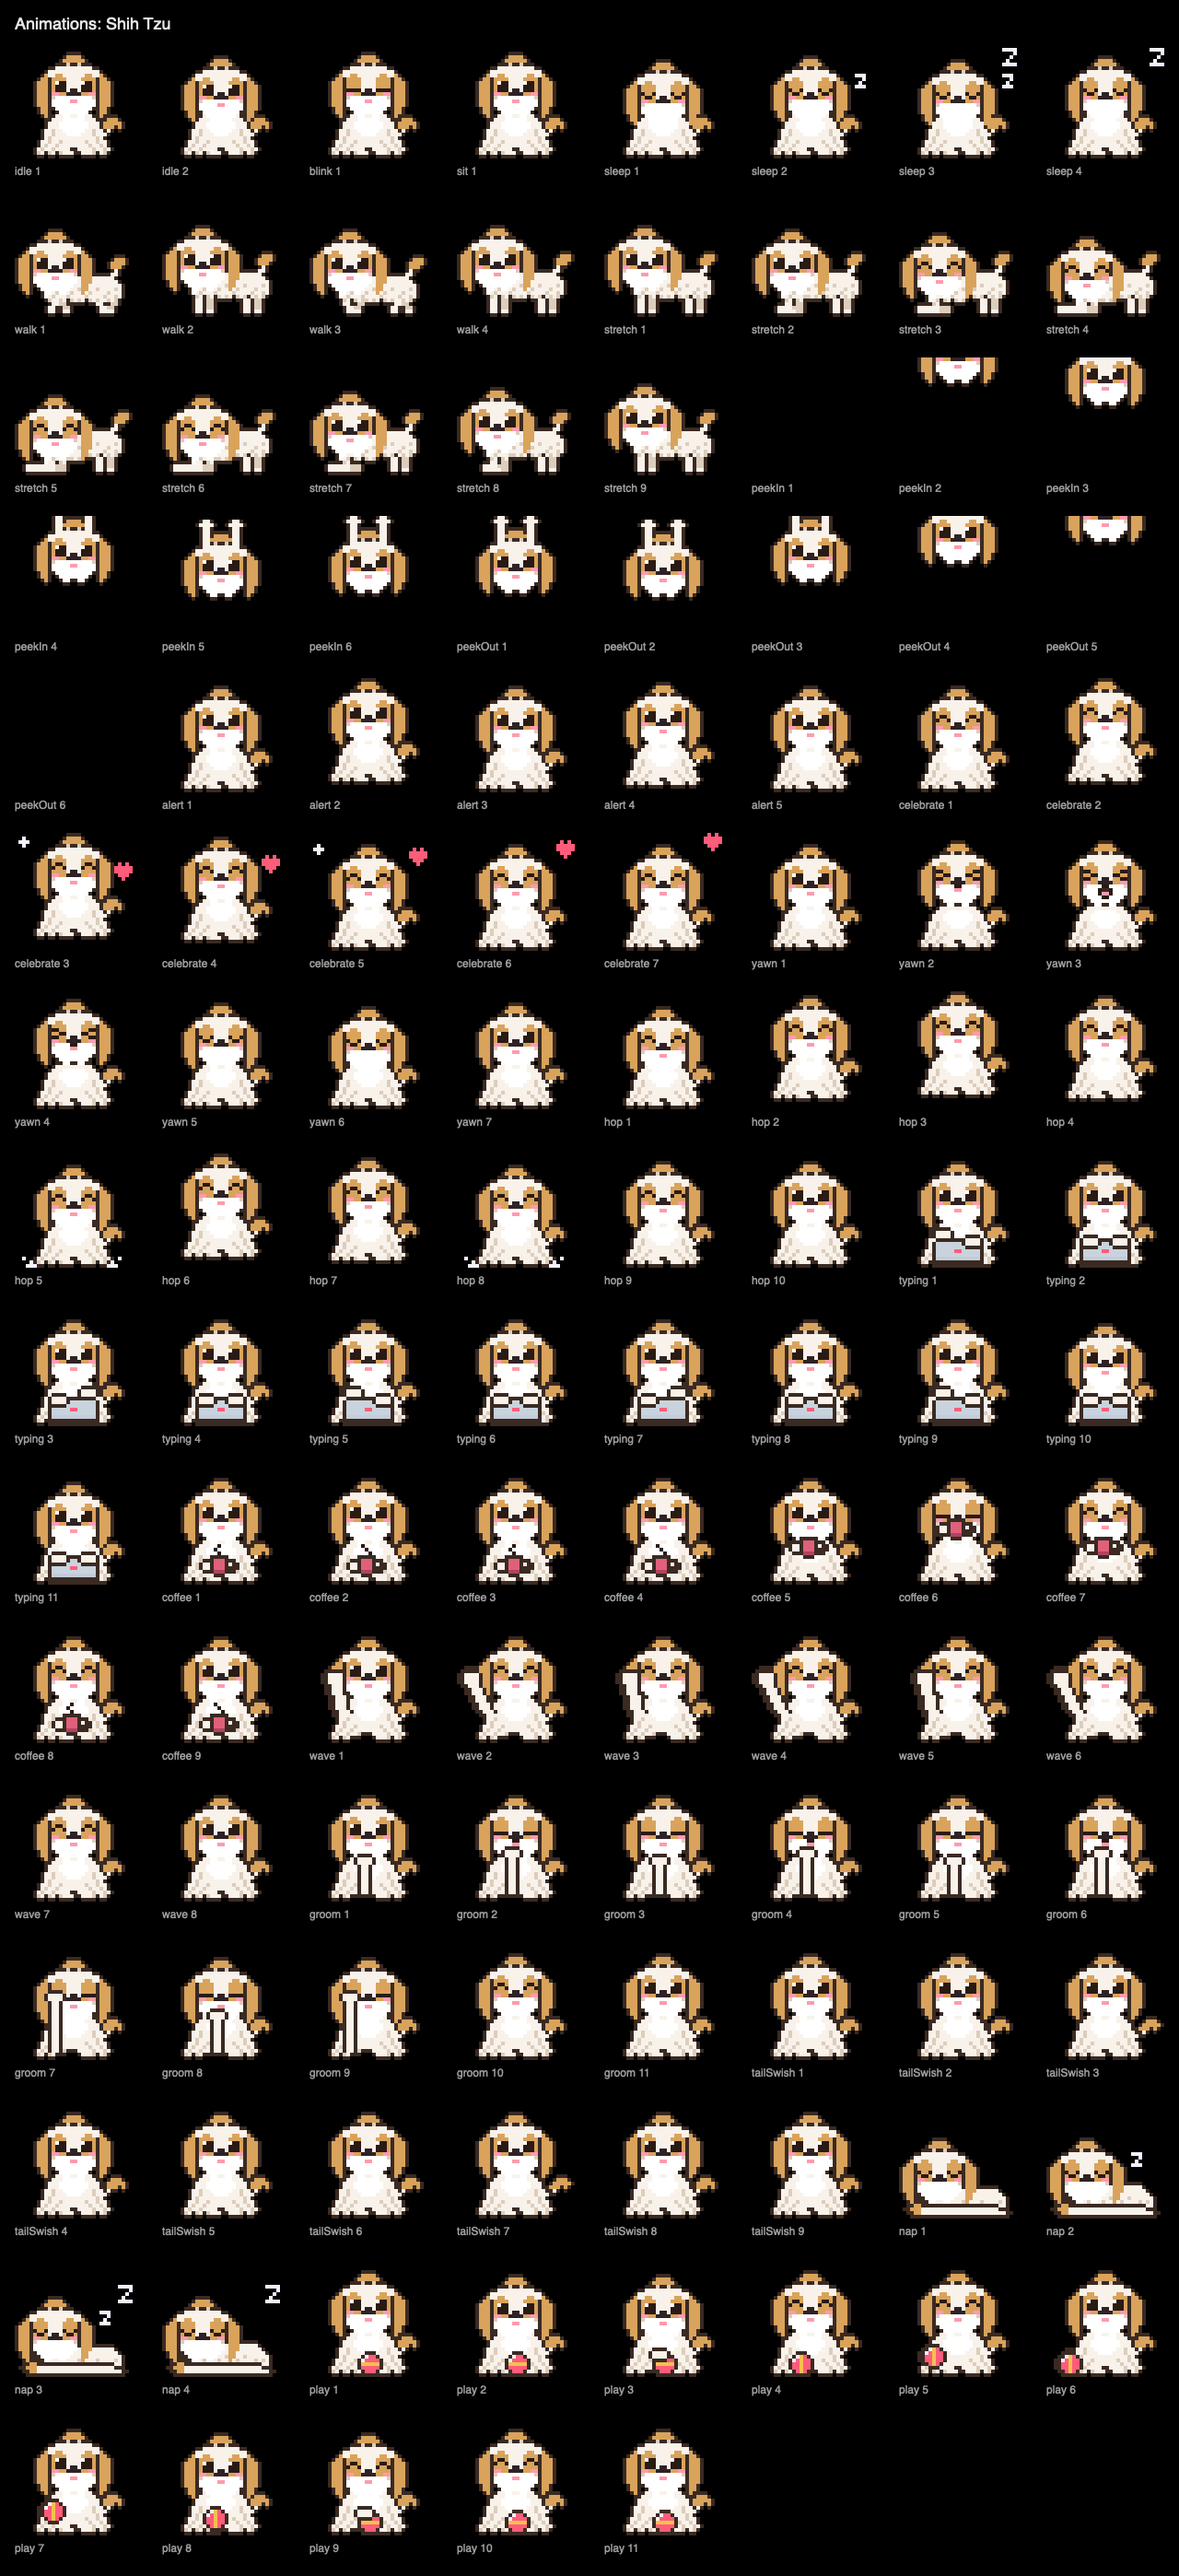
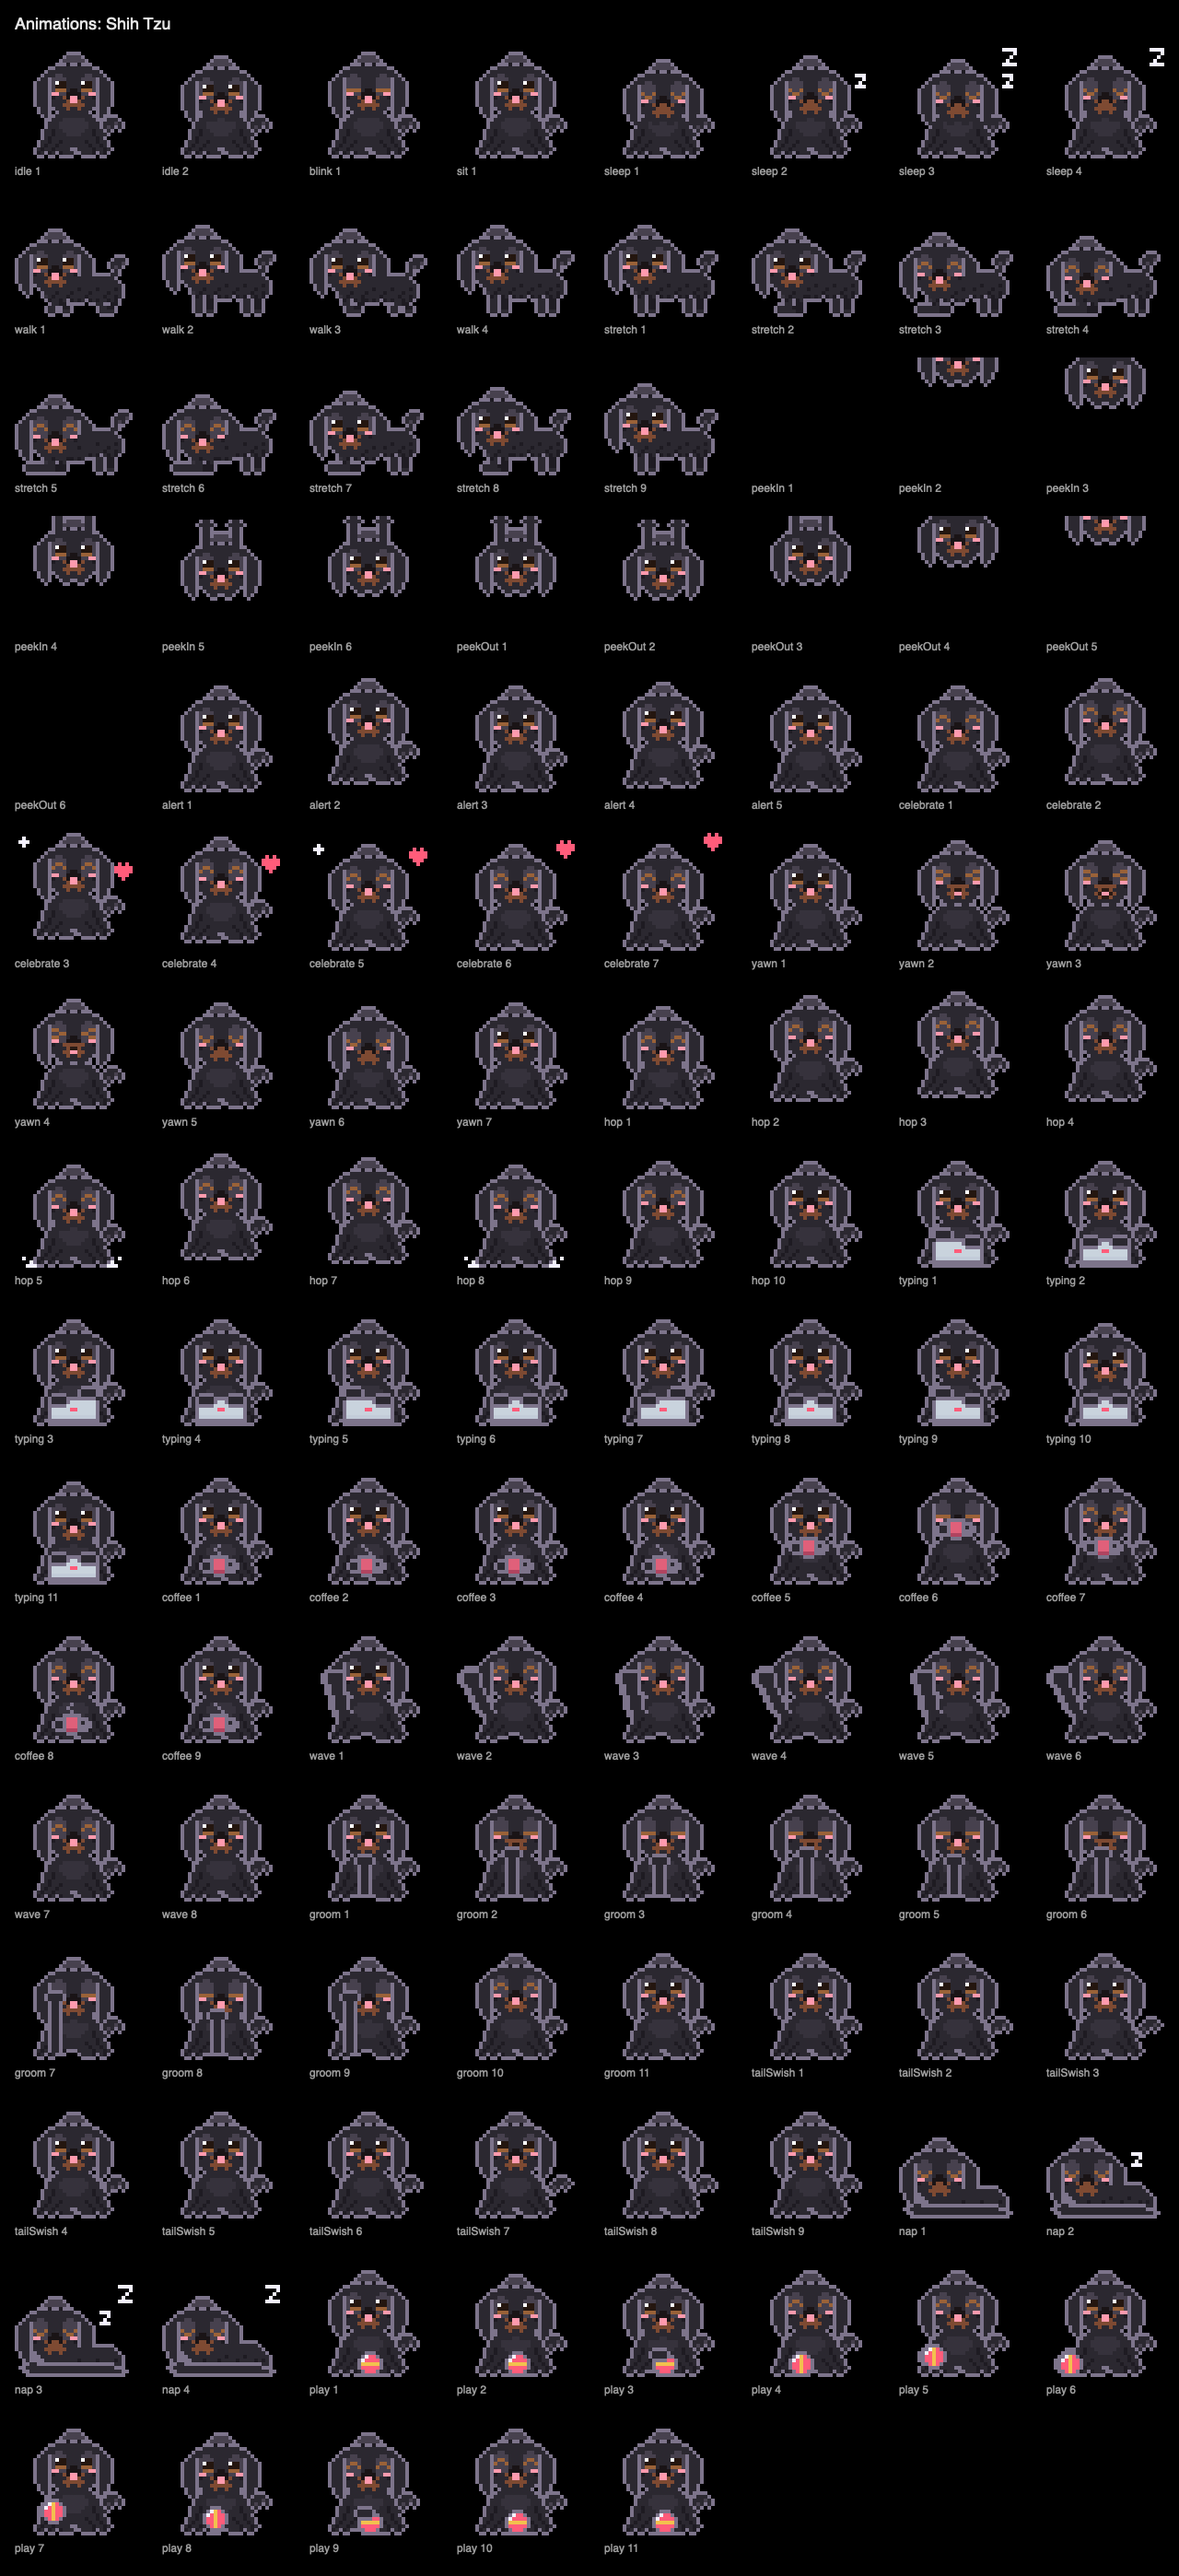
fix(pets): The default Shih Tzu is now black with a brown stain around its mouth, and the pet golden fixtures were re-recorded with changes limited to the Shih Tzu.

diff --git a/Tests/TabbiKitCoreTests/PetFurTintTests.swift b/Tests/TabbiKitCoreTests/PetFurTintTests.swift
@@ -56,13 +56,13 @@ final class PetFurTintTests: XCTestCase {
 
     func testWhiteMarkingsStayWhite() {
         // Bibs, muzzles, and paws drawn in the breed's white belly keep it.
-        for breed in [PetBreed.tuxedo, .calico, .britishShorthair, .corgi, .beagle, .frenchBulldog, .shihTzu] {
+        for breed in [PetBreed.tuxedo, .calico, .britishShorthair, .corgi, .beagle, .frenchBulldog] {
             for pick in PetCloset.furSwatches {
                 XCTAssertEqual(tinted(breed, pick)[.belly], breed.palette[.belly], "\(breed) \(pick)")
             }
         }
         // White-coated pied breeds keep the white coat; the pick colors the patches.
-        for breed in [PetBreed.calico, .frenchBulldog, .shihTzu] {
+        for breed in [PetBreed.calico, .frenchBulldog] {
             for pick in PetCloset.furSwatches {
                 XCTAssertEqual(tinted(breed, pick)[.furBase], breed.palette[.furBase], "\(breed) \(pick)")
             }
@@ -71,13 +71,26 @@ final class PetFurTintTests: XCTestCase {
 
     func testPatchesOnWhiteStayVisible() {
         let markings: [(PetBreed, PetPaletteRole)] = [(.calico, .furAccent), (.calico, .furSpot),
-                                                       (.frenchBulldog, .furSpot), (.shihTzu, .furAccent)]
+                                                       (.frenchBulldog, .furSpot)]
         for (breed, role) in markings {
             for pick in PetCloset.furSwatches {
                 let palette = tinted(breed, pick)
                 XCTAssertGreaterThan(palette[.furBase].oklch.lightness - palette[role].oklch.lightness, 0.1,
                                      "\(breed) \(role) \(pick)")
             }
+        }
+    }
+
+    func testShihTzuKeepsItsMouthStainOnEverySwatch() {
+        // The black Shih Tzu's coat follows the pick; the brown stain around
+        // its mouth is part of the breed and never changes.
+        let stain = PetBreed.shihTzu.palette[.furSpot]
+        XCTAssertLessThan(PetBreed.shihTzu.palette[.furBase].luminance, 0.05, "black by default")
+        XCTAssertEqual(PetBreed.shihTzu.pattern.role(for: .muzzle), .furSpot)
+        for pick in PetCloset.furSwatches {
+            let palette = tinted(.shihTzu, pick)
+            XCTAssertEqual(palette[.furBase], pick, "\(pick)")
+            XCTAssertEqual(palette[.furSpot], stain, "\(pick)")
         }
     }
 

diff --git a/Sources/TabbiKitCore/Pets/PetBreed.swift b/Sources/TabbiKitCore/Pets/PetBreed.swift
@@ -86,9 +86,10 @@ public enum PetBreed: String, CaseIterable, Codable, Sendable {
     /// the breed's own color, so white bibs, muzzles, and paws stay white.
     ///
     /// The pick becomes what the breed is known for: the coat of a solid
-    /// cat or dog, the patches of a white calico, pied French Bulldog, or
-    /// gold and white Shih Tzu, and the points of a Siamese, whose body
-    /// turns a pale version of the pick (a flame, blue, or lilac point).
+    /// cat or dog (a black Shih Tzu keeps its brown mouth stain), the
+    /// patches of a white calico or pied French Bulldog, and the points of a
+    /// Siamese, whose body turns a pale version of the pick (a flame, blue,
+    /// or lilac point).
     public var furTones: [PetPaletteRole: PetFurTone] {
         switch self {
         case .orangeTabby, .grayTabby:
@@ -134,7 +135,7 @@ public enum PetBreed: String, CaseIterable, Codable, Sendable {
             [.furBase: .pick, .furShade: .darker(0.2), .furAccent: .lighter(0.35),
              .belly: .lighter(0.55, chroma: 0.6)]
         case .shihTzu:
-            [.furAccent: .marking]
+            [.furBase: .pick, .furShade: .darker(0.2), .furAccent: .lighter(0.12), .belly: .lighter(0.08)]
         }
     }
 

diff --git a/Sources/TabbiKitCore/Pets/Art/DogArt.swift b/Sources/TabbiKitCore/Pets/Art/DogArt.swift
@@ -56,10 +56,11 @@ enum DogArt {
     /// pom that stands clear of the haunch.
     static let tailPom = PetArt.dog.grid("tailPom")
 
-    /// Shih Tzu: a gold topknot tied with a dark band above a white blaze, a
-    /// gold mask around big round eyes, a flat face, and a long white beard
-    /// framed by ears that hang past the chin, set apart by an outline. The
-    /// band is outline, not nose, so a cap that hides it leaves the face intact.
+    /// Shih Tzu: a topknot tied with a band, a mask around big round eyes, a
+    /// flat face, and a long beard stained around the mouth (the muzzle
+    /// zone), framed by ears that hang past the chin, set apart by an
+    /// outline. The band is outline, not nose, so a cap that hides it leaves
+    /// the face intact.
     static let headShihTzu = PetArt.dog.grid("headShihTzu")
 
     /// The Shih Tzu's flat face: big round eyes and a button nose right

diff --git a/Sources/TabbiKitCore/Pets/PetPalette.swift b/Sources/TabbiKitCore/Pets/PetPalette.swift
@@ -287,7 +287,7 @@ public struct PetFurTone: Hashable, Sendable {
     public static let pick = PetFurTone(step: 0)
 
     /// The pick as a marking on white fur (calico patches, a pied French
-    /// Bulldog, Shih Tzu gold): never so light that it melts into the white.
+    /// Bulldog): never so light that it melts into the white.
     public static let marking = PetFurTone(step: 0, maxLightness: 0.82)
 
     /// Shading, stripes, points: a deeper, slightly calmer version of the pick.

diff --git a/docs/study/pets.md b/docs/study/pets.md
@@ -438,11 +438,11 @@ The Poodle is all curls, so its look comes from a bumpy silhouette and dotted te
 
 The Shih Tzu reads by its topknot, its flat face, and a coat that falls to the floor:
 
-- Head (`DogArt.headShihTzu`): a gold topknot puff tied with a dark band, a white blaze between gold eye patches, a white beard that widens below the chin, and long gold ears that hang past it, set apart from the face by an outline.
+- Head (`DogArt.headShihTzu`): a topknot puff tied with a band, a slightly lighter mask around the eyes so they read on the dark face, a beard that widens below the chin with a brown stain around the mouth (the `muzzle` zone), and long ears that hang past it, set apart from the face by an outline.
 - Face (`DogArt.faceShihTzu`): big round 3x3 eyes with a catchlight, a button nose right between them (the flat face), and the tip of a tongue.
-- Body (`DogArt.bodyShihTzu`, `WalkArt.shihTzuTorso`): a long white coat drawn in `furShade` strands that flares out at the floor and hides all but the tips of the paws; walking, it ends in a fringe over the legs.
-- Tail (`DogArt.tailPlume`, `WalkArt.shihTzuTail`): a plume curled up over the back with a gold tip.
-- Coloring (`PetBreed.palette`): gold and white by default; the gold is `furAccent` on the ears, mask, and tail tip.
+- Body (`DogArt.bodyShihTzu`, `WalkArt.shihTzuTorso`): a long coat drawn in `furShade` strands that flares out at the floor and hides all but the tips of the paws; walking, it ends in a fringe over the legs.
+- Tail (`DogArt.tailPlume`, `WalkArt.shihTzuTail`): a plume curled up over the back.
+- Coloring (`PetBreed.palette`): black by default, with the faintly lighter `furAccent` on the topknot and mask and the mouth stain in `furSpot`. A fur tint recolors the coat like any solid breed's and leaves the brown stain as it is.
 - The tie is drawn in the outline role, so a cap that covers the topknot never changes the face. Hats sit on the skull below it (`skullTop` 5).
 - Party: the server catalog has no Shih Tzu, so it is sent as `pomeranian`, the nearest small long-coated breed there, and drawn back as a Shih Tzu.
 
